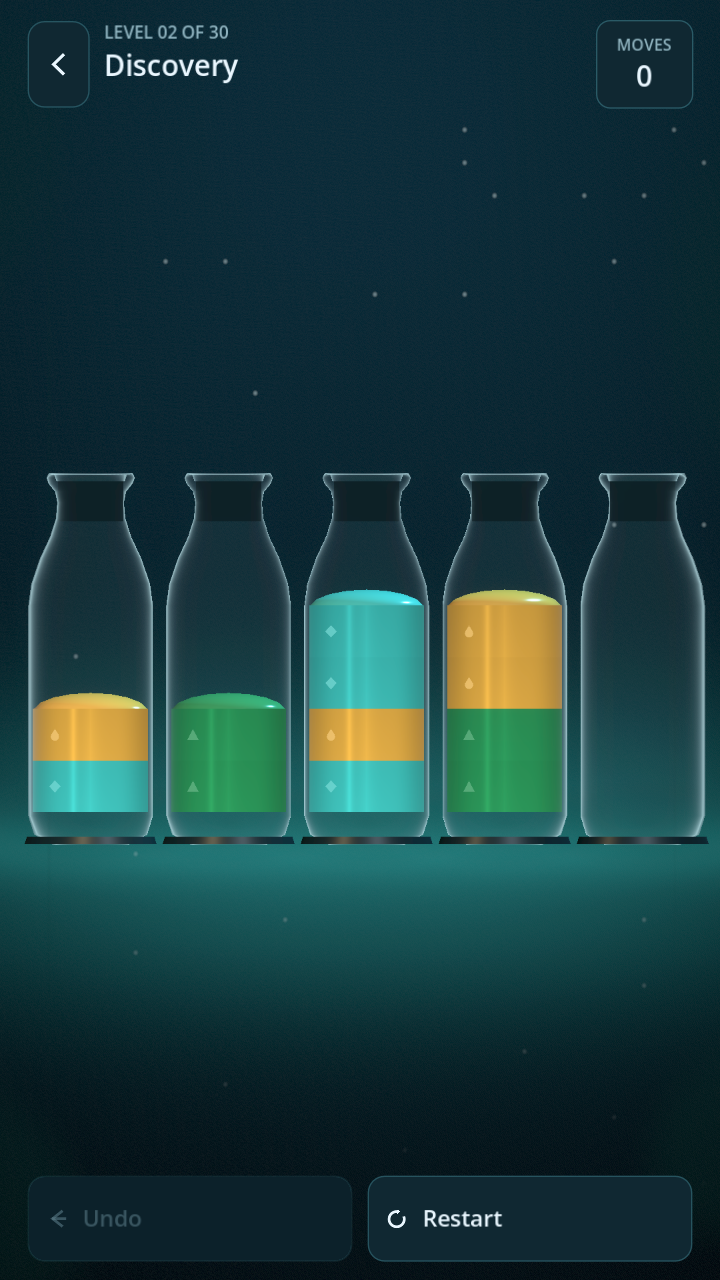
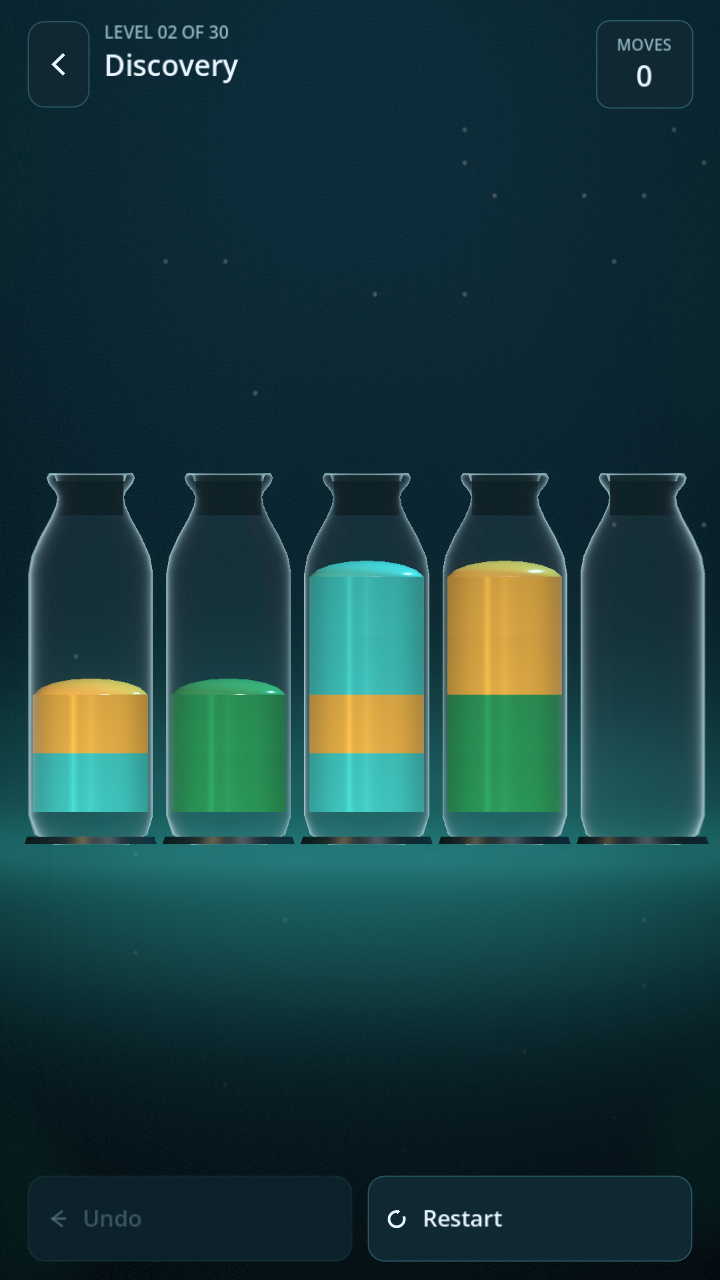
feat: colour-only liquid, and raise the shoulder so a full jug looks full
Two owner changes from testing on the phone.

Marks: removed entirely. The liquid is colour only. This completes a retreat from
the original design (black shape >= 4.5:1, then a faint 1.02-2.2:1 edge mark, now
nothing), and it is recorded plainly in palette-matrix.md 2.3: there is no
colour-vision mitigation left, so the QA-01 exception for 13 levels no longer has
its stated basis. The eight ink-contrast checks went with the feature; rules went
136 -> 128. They tested removed code rather than being relaxed.

Fill: capacity_height 0.285 -> 0.325 and the straight body extended to 0.375, so
a full column reaches 0.370 of the 0.512 vessel. A full jug used to stop a third
of the way short of the shoulder; it now reads full. The neck is still there, so
the silhouette stays a potion bottle rather than the squat jar an earlier 0.400
attempt produced.

diff --git a/docs/palette-matrix.md b/docs/palette-matrix.md
@@ -142,3 +142,31 @@ Measured ceiling for reference (worst pair, all three visions):
 Twelve colours separate fine for normal vision (?E 18.7) and fail badly for
 protan/deutan. Twelve per level would also need 16 tubes against the board's cap
 of 8, so it is a layout and level-format change, not a palette change.
+
+### 2.3 Marks removed entirely (18 Nov 2026)
+
+Owner decision: the per-band marks are gone. The liquid is **colour only**, as in
+the rest of the genre.
+
+This is the end of a three-step retreat from the original accessibility design:
+
+| Step | Cue | Contrast vs band |
+|---|---|---|
+| Original | black shape on every band | >= 4.5:1 |
+| 17 Nov | small tinted mark at the band edge | 1.02 - 2.2:1 |
+| **18 Nov** | **none** | **n/a** |
+
+**State this plainly: there is now no colour-vision mitigation at all.** The
+QA-01 exception for 13 levels was accepted on the basis that "shape remains
+distinct when hue collapses"; that basis no longer exists. A player with
+deuteranopia or protanopia cannot separate aqua/violet (rendered dE ~11.6) on
+those levels by anything except position and memory.
+
+The eight ink-contrast checks were removed with the feature; the rules suite went
+136 -> 128 checks. They tested code that no longer exists rather than being
+relaxed to pass.
+
+If accessibility is to be restored for 1.1, the options are, in order of cost:
+re-author the 13 levels within the separation threshold; or reintroduce a cue
+that does not clutter the water, such as a subtle pattern in the glass rather
+than on the liquid.
